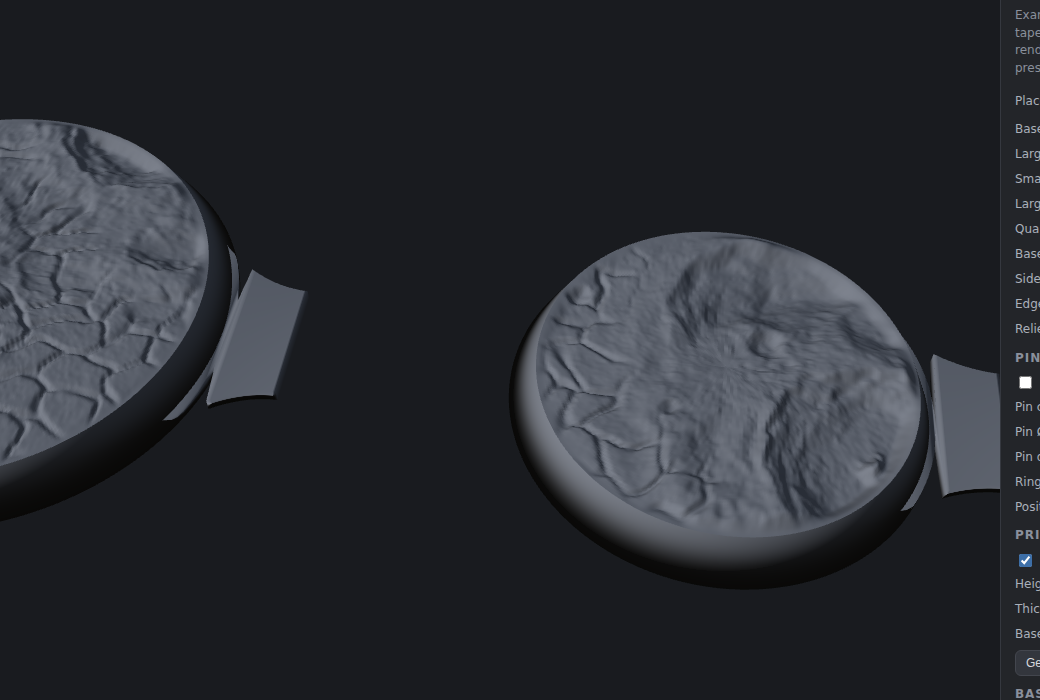
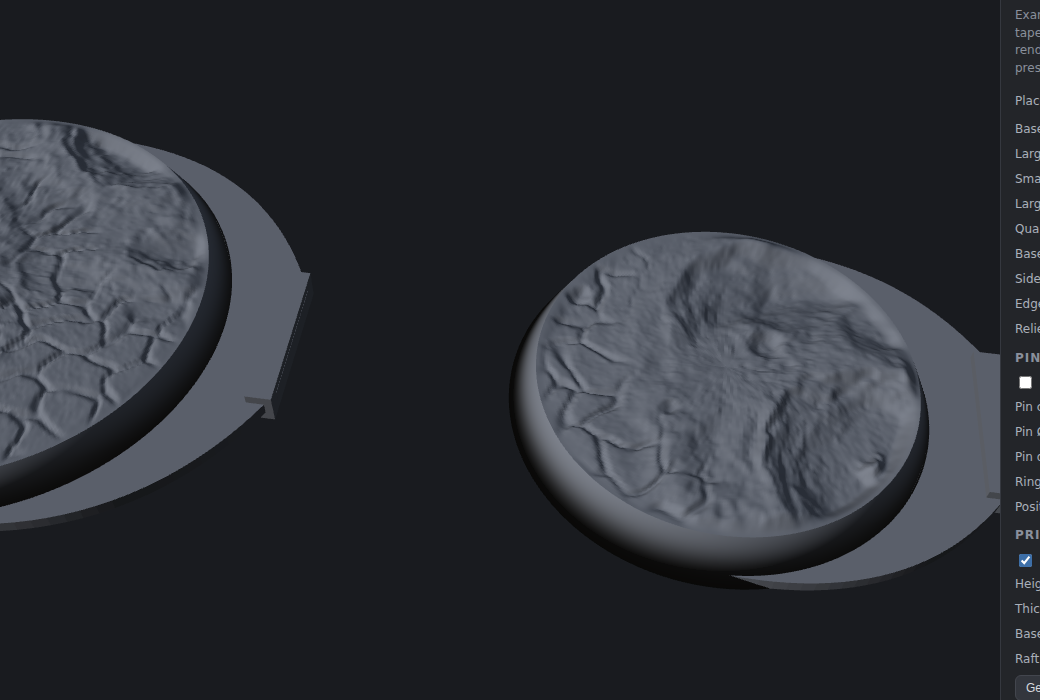
Support: 180-degree rim cradle + raft foot on the plate
Tab is now a crescent whose weld line follows the rim for a full 180
degrees, then sweeps to the bottom line; a thicker raft box (new slider)
sits on the build plate. Outline sampled manually to avoid seam
degeneracies; STL validated watertight with zero degenerate triangles.

Claude-Session: https://claude.ai/code/session_01WwifRhFHiDXyUrop2FL3Es

diff --git a/server/static/bases.js b/server/static/bases.js
@@ -9,7 +9,7 @@ const BASE_OPTS = {
   pins_enabled: false, pin_count: 4, pin_diameter_mm: 2.0,
   pin_depth_mm: 1.0, pin_ring_frac: 0.55, pin_noise: 0.0,
   support_enabled: false, support_height_mm: 4.0,
-  support_thickness_mm: 0.8, support_base_mm: 8.0,
+  support_thickness_mm: 0.8, support_base_mm: 8.0, support_raft_mm: 2.0,
 };
 // [key, label, min, max, step, unit, refetch?]
 const BASE_PARAMS = [
@@ -34,6 +34,7 @@ const SUPPORT_PARAMS = [
   ["support_height_mm", "Height", 2, 12, 0.5, "mm"],
   ["support_thickness_mm", "Thickness", 0.4, 2.5, 0.05, "mm"],
   ["support_base_mm", "Base size", 2, 40, 0.5, "mm"],
+  ["support_raft_mm", "Raft thickness", 0.8, 4, 0.1, "mm"],
 ];
 
 let R3 = null;            // {renderer, scene, camera, controls, group}
@@ -262,50 +263,55 @@ function buildBaseGeometry(base, baseIndex, exOverride) {
   return g;
 }
 
-function buildSupportGeometry(base) {
+function buildSupportGeometries(base) {
   // Thin tab flush with the base's bottom face, coming off the rim
-  // sideways (+x) as viewed here. Parts print rotated 90° -- disc on
-  // edge -- so the tab runs down to the build plate: its edge follows
-  // the rim circle ("curves"), then sweeps in to a straight line of
-  // length support_base_mm at support_height_mm beyond the rim.
+  // sideways (+x) as viewed here; parts print rotated 90° (disc on edge,
+  // tab down). The tab's inner edge hugs the rim over a full 180° (a
+  // crescent with its weld line just inside the rim -- maximum edge
+  // support, still snaps off), then sweeps to a straight line at the
+  // plate. A thicker raft box sits on the plate for adhesion.
   const Rb = base.diameter / 2;
   const tf = BASE_OPTS.support_thickness_mm;   // plate thickness (local y)
   const S = BASE_OPTS.support_height_mm;       // rim -> build plate distance
-  const w0 = 0.65 * Rb;                        // half contact width at rim
-  const L = Math.min(BASE_OPTS.support_base_mm / 2, w0); // half line length
-  const xA = Math.sqrt(Math.max(Rb * Rb - w0 * w0, 0)) - 1.0; // embedded start
+  const L = Math.min(BASE_OPTS.support_base_mm, 2 * Rb) / 2;
+  const Ri = Rb - 0.5;                         // weld line inside the rim
   const xB = Rb + S;
-  const K = 36;
 
-  const pos = [];
-  for (let k = 0; k <= K; k++) {
-    const u = k / K;
-    const x = xA + (xB - xA) * u;
-    let h = L + (w0 - L) * Math.pow(1 - u, 2.0);   // curve -> line
-    if (x < Rb) {                                   // stay inside the rim
-      h = Math.min(h, Math.sqrt(Math.max(Rb * Rb - x * x, 1e-6)));
-    }
-    // cross-section rectangle in (y, z) at this x
-    pos.push(x, 0, h, x, tf, h, x, tf, -h, x, 0, -h);
+  // outline sampled manually (no duplicate seam points -> clean mesh):
+  // 180° inner arc just inside the rim, bezier out to the bottom line,
+  // across the line, bezier back up to the arc start
+  const pts = [];
+  const NA = 60, NB = 26;
+  for (let k = 0; k <= NA; k++) {
+    const th = Math.PI / 2 - (k / NA) * Math.PI;
+    pts.push(new THREE.Vector2(Ri * Math.cos(th), Ri * Math.sin(th)));
   }
-  const idx = [];
-  const C = 4;
-  for (let k = 0; k < K; k++) {
-    const a = k * C, b = (k + 1) * C;
-    for (let e = 0; e < C; e++) {
-      const e1 = (e + 1) % C;
-      idx.push(a + e, b + e, b + e1, a + e, b + e1, a + e1);
-    }
+  const quad = (x0, y0, cx, cy, x1, y1, t) => new THREE.Vector2(
+    (1 - t) * (1 - t) * x0 + 2 * (1 - t) * t * cx + t * t * x1,
+    (1 - t) * (1 - t) * y0 + 2 * (1 - t) * t * cy + t * t * y1);
+  for (let k = 1; k <= NB; k++) {   // (0,-Ri) -> (xB,-L), bulging past rim
+    pts.push(quad(0, -Ri, Rb * 0.88, -(Rb + 0.55), xB, -L, k / NB));
   }
-  idx.push(0, 1, 2, 0, 2, 3);                       // inner cap (-x, in base)
-  const m = K * C;
-  idx.push(m, m + 2, m + 1, m, m + 3, m + 2);       // outer cap (+x)
+  pts.push(new THREE.Vector2(xB, L));  // across the bottom line
+  for (let k = 1; k < NB; k++) {    // (xB,+L) -> (0,+Ri), mirrored; stops
+    pts.push(quad(xB, L, Rb * 0.88, Rb + 0.55, 0, Ri, k / NB));
+  }                                 // short of the arc start (auto-close)
+  const tab = new THREE.ExtrudeGeometry(new THREE.Shape(pts), {
+    depth: tf, bevelEnabled: false,
+  });
+  // extrude space (sx, sy, sz) -> base-local (x=sx, y=sz, z=-sy);
+  // determinant +1, so face winding is preserved
+  const p = tab.attributes.position;
+  for (let i = 0; i < p.count; i++) {
+    const sx = p.getX(i), sy = p.getY(i), sz = p.getZ(i);
+    p.setXYZ(i, sx, sz, -sy);
+  }
+  tab.computeVertexNormals();
 
-  const g = new THREE.BufferGeometry();
-  g.setAttribute("position", new THREE.Float32BufferAttribute(pos, 3));
-  g.setIndex(idx);
-  g.computeVertexNormals();
-  return g;
+  const raftT = Math.max(BASE_OPTS.support_raft_mm, tf + 0.3);
+  const raft = new THREE.BoxGeometry(1.6, raftT, 2 * L + 2);
+  raft.translate(xB - 0.8, tf / 2, 0);
+  return [tab, raft];
 }
 
 function baseGeometries(exOverride) {
@@ -315,7 +321,9 @@ function baseGeometries(exOverride) {
   lastBases.forEach((b, i) => {
     out.push({ g: buildBaseGeometry(b, i, exOverride), off: offs[i], base: b, i });
     if (BASE_OPTS.support_enabled) {
-      out.push({ g: buildSupportGeometry(b), off: offs[i], base: b, i });
+      for (const g of buildSupportGeometries(b)) {
+        out.push({ g, off: offs[i], base: b, i });
+      }
     }
   });
   return out;
@@ -362,8 +370,10 @@ function exportSTL() {
   if (!lastBases || !lastBases.length) return;
   // print-true geometry: relief exaggeration forced to 1x
   const geos = baseGeometries(1.0);
+  const indexOf = (g) => g.index ? g.index.array
+    : Uint32Array.from({ length: g.attributes.position.count }, (_, i) => i);
   let tris = 0;
-  for (const { g } of geos) tris += g.index.count / 3;
+  for (const { g } of geos) tris += indexOf(g).length / 3;
 
   const buf = new ArrayBuffer(84 + tris * 50);
   const dv = new DataView(buf);
@@ -376,7 +386,7 @@ function exportSTL() {
   const nBases = lastBases.length;
   geos.forEach(({ g, off, base, i }) => {
     const p = g.attributes.position.array;
-    const ix = g.index.array;
+    const ix = indexOf(g);
     const [ox, oz] = off;
     const rowX = (i - (nBases - 1) / 2) * pitch;
     const zTop = base.diameter / 2 + BASE_OPTS.support_height_mm;

diff --git a/README.md b/README.md
@@ -126,11 +126,12 @@ schema + defaults); presets on disk are `{"seed": ..., "config": ...}`.
     position-noise dial (0 = perfect, 1 = up to 1 mm XY error per pin,
     seeded/deterministic).
   - **Print support** — optional thin tab flush with the base's bottom
-    face, coming off the rim (parts print rotated 90°, disc on edge, tab
-    down): its edge follows the rim circle then curves in to a single
-    straight line on the build plate; configurable height, thickness,
-    line length. With supports on, the STL exports in print orientation
-    (discs on edge, every support line at z=0).
+    face (parts print rotated 90°, disc on edge, tab down): a crescent
+    whose weld line hugs a full 180° of the rim (maximum edge support,
+    still snaps off), sweeping to a straight line on the build plate
+    with a thicker raft foot for adhesion; configurable height,
+    thickness, line length, raft thickness. With supports on, the STL
+    exports in print orientation (discs on edge, raft at z=0).
   - **Base configs** — save/load the whole setup (base options, pins,
     support, placement seed) with the terrain preset embedded, to
     `presets/bases/*.json`.